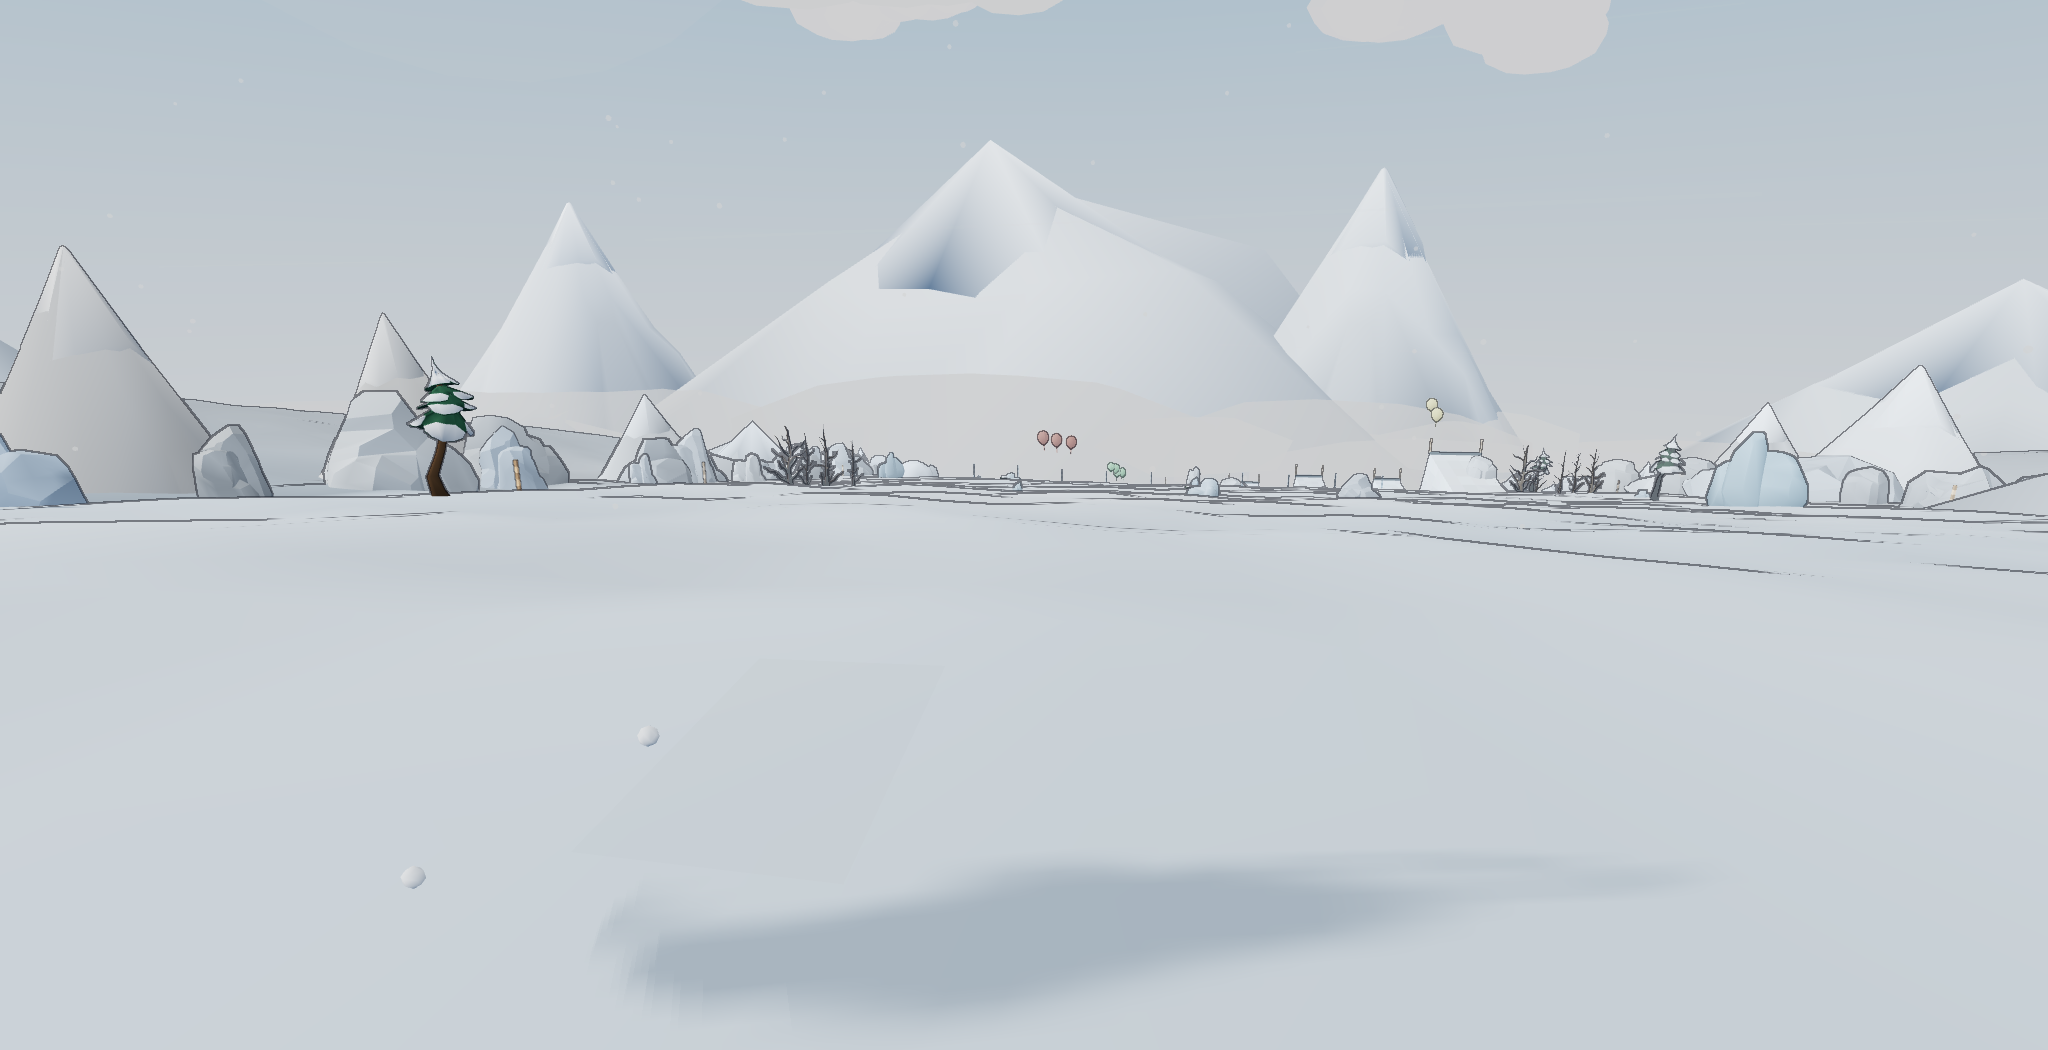
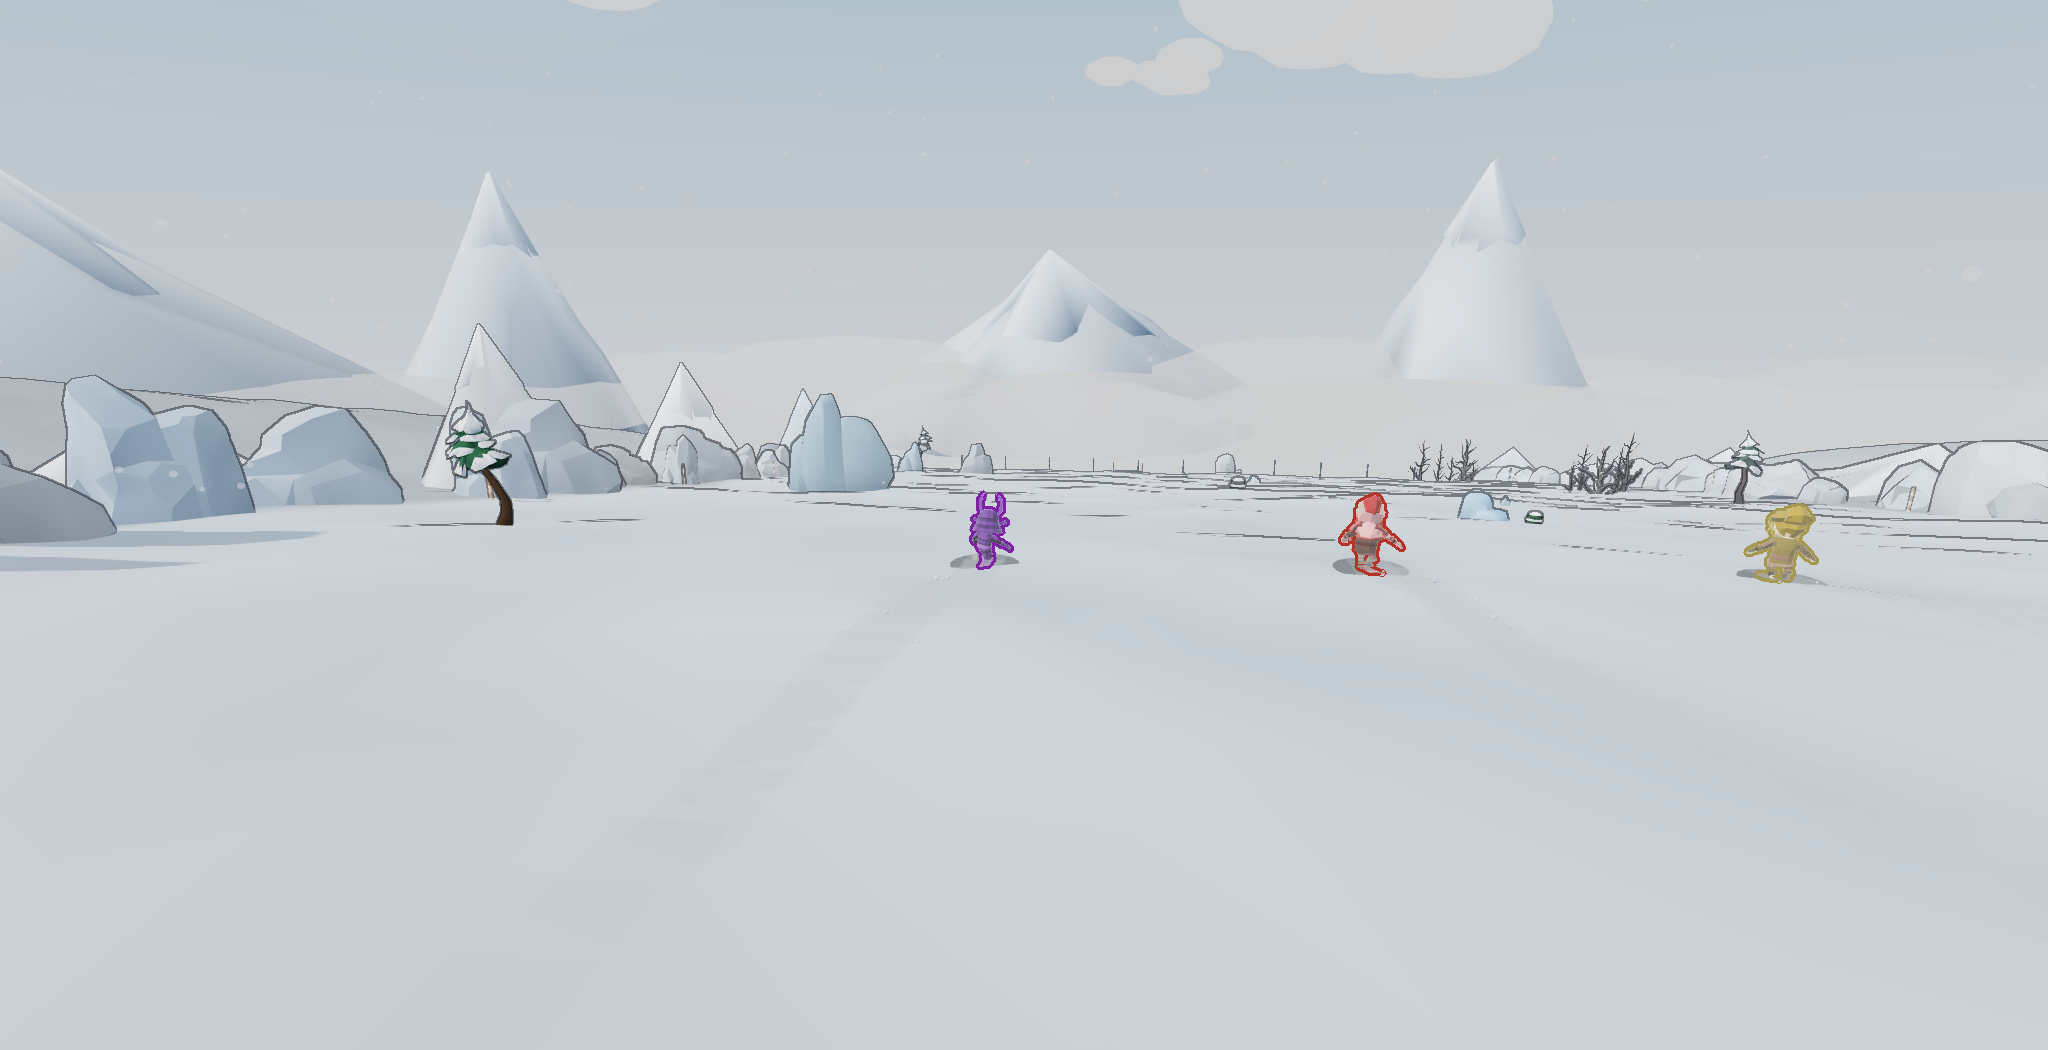
MINICHARS (Toni 28/08): los cuatro minijuegos dejan de estar vacios — ahora se corre en ellos
Toni: "los personajes no salen en los surf, sandboard, kitesurf y tubo". El ocultado era DELIBERADO
(el 27/08 pidio "un screenshot sin personajes me vale"), asi que se cae el bloque entero que apagaba
r.gfx / r.shadow / r.tabla / r.kite y los SkinnedMesh de las dos escenas de modulo. Quitar el kite es
lo que hace que el kitesurf se lea como kitesurf: antes se veian las cuerdas de la cometa colgando
sin cometa ni jinete, y en la nieve quedaba la SOMBRA del corredor invisible sobre la ladera.

Se sigue escondiendo una sola cosa: los munecos de la PARTIDA. Viven en `scene`, no en DESC.scene,
asi que hoy ni se dibujan; cuesta cero y cubre el caso de que el render caiga al else.

LO GORDO NO ERA ESO, sino que la carrera no se estaba simulando. El guion era sleep(2500) ->
introT=9999 -> sleep(9000) y foto a lo que hubiera; en headless eso son ~25 frames de fisica, con los
cuatro amontonados en la parrilla y los mixer casi en pose de bind. Ahora se bombea tick(dt) a mano,
que es publico, y la foto sale ademas DETERMINISTA: mismo avance, mismo encuadre.

Dos trampas del arnes que costaron sendas pasadas, y por eso van escritas en el fichero:

1. EL ORDEN. `pideTabla()` y el reintento de `montaPersonaje` viven DENTRO de tick
   (descenso.js:5920-5921, tubo.js:2795). Con el rAF estrangulado en headless el tick no corre solo,
   asi que NADIE pide los GLB: esperar 90 s daba 0/4 eternamente — no es que tardaran, es que nadie
[…]

diff --git a/_captura_minis.js b/_captura_minis.js
@@ -13,11 +13,26 @@ const URL = 'http://localhost:8181/rumble_arena_cinta_v4.html?explorar';
 const DEST = 'C:/Users/tonit/Desktop/Rumbleboys Alfa';
 const sleep = ms => new Promise(r => setTimeout(r, ms));
 
+/* `out` LLEVA _iso: es como los pide el menu (rumble_arena_cinta_v4.html:20106, 'mini_'+pasoClave+
+   suf+'.png' con suf='_iso'). Sin el sufijo hay que renombrar a mano tras cada pasada, que es lo
+   que paso el 27/08. No quitarlo.
+   `avance` = segundos de carrera que se simulan antes de la foto (ver el bombeo mas abajo). Va por
+   mini y no global porque la parrilla del MAR es el doble de ancha (x0 = (i-1.5)*26 frente a *16),
+   asi que con el mismo valor el kitesurf sale mucho mas disperso que la nieve.
+   Los dos numeros son un EQUILIBRIO medido, no un capricho: la parrilla nace con 48 u de ancho y la
+   camara va al hombro del corredor 0, asi que cuanto mas se avanza mas se dispersan y mas atras hay
+   que irse para que quepan; y cuanto mas atras, mas pequenos salen. Probado: con avance 5 y sin
+   tope salian los cuatro pero como MOTAS (ilegibles en una card de 440 px); con tope 20 salian dos
+   GRANDES. Con 2 s y tope 34 salen tres a tamano legible, que es el mejor punto.
+   PROBADO Y DESCARTADO: apretar la formacion moviendo la x de los rivales hacia el protagonista
+   para que cupieran los cuatro y grandes. Aunque se daba un tick corto despues para recolocar
+   sombra y cometa, el resultado tenia TABLAS HUERFANAS tiradas por el suelo sin jinete — mover a un
+   corredor de golpe le dispara su propia logica. No volver a intentarlo por esta via. */
 const MINIS = [
-  { out: 'mini_m_sand.png', tipo: 'desc', piel: 'arena', nom: 'SANDBOARD' },
-  { out: 'mini_m_surf.png', tipo: 'desc', piel: 'mar',   nom: 'SURF' },
-  { out: 'mini_m_snow.png', tipo: 'desc', piel: 'nieve', nom: 'SNOWBOARD' },
-  { out: 'mini_m_tubo.png', tipo: 'tubo', nom: 'TUBO' },
+  { out: 'mini_m_sand_iso.png', tipo: 'desc', piel: 'arena', nom: 'SANDBOARD', avance: 2.0, retroMax: 34 },
+  { out: 'mini_m_surf_iso.png', tipo: 'desc', piel: 'mar',   nom: 'KITESURF',  avance: 2.0, retroMax: 34 },
+  { out: 'mini_m_snow_iso.png', tipo: 'desc', piel: 'nieve', nom: 'SNOWBOARD', avance: 2.0, retroMax: 34 },
+  { out: 'mini_m_tubo_iso.png', tipo: 'tubo', nom: 'TUBO',   avance: 4.0, retroMax: 10 },
 ];
 
 (async () => {
@@ -77,35 +92,136 @@ const MINIS = [
 
     const e1 = await ev(entrar);
     if (e1.err) { console.log('  ' + M.nom.padEnd(11) + ' FALLO AL ENTRAR ' + e1.err.slice(0, 140)); continue; }
-    /* SALTAR LA PRESENTACION. En headless el bucle va a 1-3 fps, asi que a los 9 s la camara de
-       intro sigue en mitad del travelling y sale mirando al horizonte (el surf salio siendo cielo y
-       una banda de mar). Empujando el reloj de intro por encima de su duracion, el tick llama a
-       raceGo() y la camara pasa a la de carrera, que es la que mira la pista. */
-    await sleep(2500);
+    /* ================= LA CARRERA, SIMULADA A MANO =================
+       Antes esto era sleep(2500) -> introT=9999 -> sleep(9000) y foto a lo que hubiera. En headless
+       el bucle va a 1-3 fps, o sea que esos 11 s son ~25 frames de fisica: los cuatro seguian
+       AMONTONADOS en la parrilla y sus mixer casi en pose de bind. Ahora se bombea tick(dt) a mano,
+       que es publico (descenso.js:5848, tubo.js:2736) y no depende del rAF estrangulado. Con eso la
+       foto es ademas DETERMINISTA: mismo avance, mismo encuadre. */
+
+    /* 1) ESPERAR EL MONTAJE **EN TIEMPO REAL**, y hacerlo ANTES de bombear. Es obligatorio:
+       tick() en fase intro acumula _espera y dispara introGo() al llegar a INTRO.espera (12 s,
+       descenso.js:5136). Bombear se come esos 12 s en milisegundos, asi que si se bombea antes de
+       que los GLB (12 MB) hayan resuelto, la presentacion arranca con cuatro CAPSULAS GRISES. Y los
+       GLB solo pueden resolverse entre turnos del event loop, que un Runtime.evaluate sincrono no
+       cede: por eso se espera desde Node, con sleeps de verdad.
+       OJO AL ORDEN, que es lo que fallo en el primer intento: `pideTabla()` y el reintento de
+       `montaPersonaje` viven DENTRO de tick (descenso.js:5920-5921, tubo.js:2795), o sea que si el
+       tick no corre NADIE pide los GLB. Y en headless el rAF esta estrangulado, asi que no corre
+       solo. Esperar 90 s sin bombear daba 0/4 eternamente: no es que tardaran, es que nadie los
+       habia pedido. Por eso el sondeo bombea UN tick por vuelta (dispara la peticion y reintenta el
+       montaje) y luego cede el hilo un segundo de verdad, que es cuando la promesa del GLB resuelve.
+       Un tick por vuelta ademas mantiene `_espera` a raya: 90 vueltas son 1,5 s simulados, muy por
+       debajo de los 12 s de INTRO.espera que dispararian la presentacion con capsulas grises. */
+    let mont = '';
+    for (let k = 0; k < 90; k++) {
+      const q = await ev(`(function(){ const M = (window.DESC && DESC.on) ? DESC : ((window.TUBO && TUBO.on) ? TUBO : null);
+        if(!M || !M.racers || !M.racers.length) return '0/0';
+        try{ M.tick(1/60); }catch(e){}
+        return M.racers.filter(r => r.montado).length + '/' + M.racers.length; })()`);
+      mont = q.v || '';
+      const mm = /^(\d+)\/(\d+)$/.exec(mont);
+      if (mm && +mm[2] > 0 && mm[1] === mm[2]) break;
+      await sleep(1000);
+    }
+    if (!/^(\d+)\/\1$/.test(mont)) console.log('  ' + M.nom.padEnd(11) + ' AVISO: montaje ' + mont + ' -> saldran capsulas grises');
+
+    /* 2) que la IA conduzca TAMBIEN al corredor 0. El gancho ya existia en descenso.js:5877 y no lo
+       usaba nadie; en tubo.js se acaba de anadir igual. Sin esto el humano no traza (ax:0) y en el
+       tubo acaba estrellado o fuera, que es peor foto que ninguna.
+       3) saltar la presentacion. NO basta con introT=9999: el tick solo mira ese reloj DENTRO de
+       `if(_introGo)`, y _introGo solo se pone cuando los cuatro estan montados o cuando _espera pasa
+       de 12 s. Con el reloj a 9999 y _introGo a mano, el primer tick del bombeo llama a raceGo(),
+       que ademas reasienta a los corredores sobre el suelo real. */
     await ev(`(function(){
-      try{ if(window.DESC && DESC.on) DESC.introT = 9999; }catch(e){}
-      try{ if(window.TUBO && TUBO.on) TUBO.introT = 9999; }catch(e){}
+      for(const MOD of [window.DESC, window.TUBO]){
+        if(!MOD || !MOD.on || !MOD.racers) continue;
+        for(const r of MOD.racers) r.aiDrive = true;
+        MOD._introGo = true; MOD.introT = 9999;
+      }
       return 'ok';
     })()`);
-    await sleep(9000);
+
+    /* 4) BOMBEO, en tandas con un respiro entre ellas: cada tanda es una evaluacion SINCRONA, y
+       encadenar miles de ticks sin ceder el hilo bloquea al navegador. Cada tick va en try/catch
+       porque DESC.tick no lo lleva por dentro: si updateAudio o updateHud lanzan, se cortaria el
+       bombeo a media carrera y la escena quedaria a medias. */
+    const TANDA = 120, dtF = 1 / 60;
+    const ticks = Math.max(1, Math.round((M.avance || 4) / dtF));
+    let hechos = 0, fallos = 0;
+    for (let done = 0; done < ticks; done += TANDA) {
+      const n = Math.min(TANDA, ticks - done);
+      const q = await ev(`(function(){ const M = (window.DESC && DESC.on) ? DESC : ((window.TUBO && TUBO.on) ? TUBO : null);
+        if(!M || !M.tick) return '0/0';
+        let ok = 0, ko = 0;
+        for(let i = 0; i < ${n}; i++){ try{ M.tick(${dtF}); ok++; }catch(e){ ko++; } }
+        return ok + '/' + ko; })()`);
+      const pr = String(q.v || '0/0').split('/');
+      hechos += (+pr[0] || 0); fallos += (+pr[1] || 0);
+      await sleep(200);
+    }
+    const fase = (await ev(`(function(){ const M = (window.DESC && DESC.on) ? DESC : ((window.TUBO && TUBO.on) ? TUBO : null);
+      return M ? (M.phase + ' t=' + (M.t || 0).toFixed(1)) : '?'; })()`)).v;
+    console.log('  ' + M.nom.padEnd(11) + ' montaje ' + mont + ' · ticks ' + hechos + (fallos ? (' · FALLOS ' + fallos) : '') + ' · ' + fase);
 
     const shot = await ev(`(function(){
-      /* SIN PERSONAJES: fuera los muñecos de la partida y los corredores del modulo */
+      /* ►CORREDORES (Toni 28/08: "los personajes no salen en los surf, sandboard, kitesurf y
+         tubo"). Aqui estaba el ocultado, y era DELIBERADO: la peticion del 27/08 fue "un screenshot
+         sin personajes me vale". Ahora los quiere, asi que se cae entero el bloque que apagaba
+         r.gfx / r.shadow / r.tabla / r.kite y los SkinnedMesh de las dos escenas de modulo. Quitar
+         el kite es justo lo que hace que el kitesurf se lea como kitesurf: antes se veian las
+         cuerdas de la cometa colgando sin cometa ni jinete.
+         Lo UNICO que se sigue escondiendo son los munecos de la PARTIDA: viven en scene, no en
+         DESC.scene, asi que hoy ni se dibujan (DESC.render pinta DESC.scene con DESC.cam). Cuesta
+         cero y cubre el caso de que el render caiga al else de renderer.render(scene,camera). */
       try{ if(typeof players!=='undefined') for(const p of players){ if(p.gfx && p.gfx.root) p.gfx.root.visible = false; } }catch(e){}
-      try{ if(window.DESC && DESC.on && DESC.scene) DESC.scene.traverse(o => { if(o.isSkinnedMesh) o.visible = false; }); }catch(e){}
-      try{ if(window.TUBO && TUBO.on && TUBO.scene) TUBO.scene.traverse(o => { if(o.isSkinnedMesh) o.visible = false; }); }catch(e){}
-      /* el corredor entero: su raiz se llama gfx (dentro van cuerpo, TABLA y capsula) y la sombra
-         va aparte. Escondiendo solo el SkinnedMesh se quedaba el snowboard flotando sobre su sombra. */
-      for(const MOD of [window.DESC, window.TUBO]){
-        try{ if(MOD && MOD.on && MOD.racers) for(const r of MOD.racers){
-          const g = r.gfx || r.g || r.root; if(g) g.visible = false;
-          if(r.shadow) r.shadow.visible = false;
-          if(r.tabla && r.tabla.visible !== undefined) r.tabla.visible = false;
-          if(r.kite && r.kite.visible !== undefined) r.kite.visible = false;
-        } }catch(e){}
-      }
       /* fuera el HUD propio del modulo, que es un div aparte */
       for(const q of ['descHud','tuboHud']){ const n = document.getElementById(q); if(n) n.style.display = 'none'; }
+
+      /* ►ENCUADRE: RETROCEDER HASTA QUE QUEPAN LOS CUATRO.
+         La camara de carrera va pegada al hombro del corredor 0 (stepCamera sigue a
+         racers.find(q=>q.human)), asi que con los rivales repartidos por la pista solo salia UNO
+         y la caratula no contaba que es una carrera. Medido: tras 5 s los cuatro abarcan ~47 u en
+         X, muy fuera de ese encuadre.
+         Se hace AQUI, despues del ultimo tick y antes de render, que es cuando ya no vuelve a
+         correr stepCamera y por tanto no lo deshace. Mismo metodo que el auto-encaje del arnes de
+         islas: proyectar los puntos a NDC y alejarse mientras alguno se salga.
+         OJO con la cupula: sky/backdrop/cielo (y fill en el tubo) van pegados a la camara cada
+         frame (descenso.js:5077-5079); si se mueve la camara sin moverlos, un retroceso grande la
+         deja fuera de la cupula y sale un agujero de fondo.
+         Y OJO con pasarse: sin tope, encajar a los cuatro mandaba la camara tan atras que salian
+         DIMINUTOS (probado: la parrilla ya nace con 48 u de ancho, x0 = (i-1.5)*16, y encima se
+         separan en Z al correr). La caratula la manda el protagonista, asi que retroMax corta el
+         retroceso: si alguno se queda fuera de cuadro, mejor eso que cuatro motas. */
+      try{
+        const MOD = (window.DESC && DESC.on) ? DESC : ((window.TUBO && TUBO.on) ? TUBO : null);
+        if(MOD && MOD.cam && MOD.racers && MOD.racers.length && MOD.scene){
+          MOD.scene.updateMatrixWorld(true);
+          const cam = MOD.cam, dir = new THREE.Vector3();
+          cam.getWorldDirection(dir);
+          const pts = [];
+          for(const r of MOD.racers){
+            const g = r.gfx || r.g || r.root; if(!g) continue;
+            const v = new THREE.Vector3().setFromMatrixPosition(g.matrixWorld); v.y += 1.2;
+            pts.push(v);
+          }
+          const PASO = 2.5, TOPE = ${M.retroMax || 20};
+          for(let it = 0; it < Math.floor(TOPE / PASO) && pts.length; it++){
+            cam.updateMatrixWorld(true); cam.updateProjectionMatrix();
+            let m = 0;
+            for(const P of pts){
+              const q = P.clone().project(cam);
+              /* q.z > 1 = detras de la camara: no hay NDC que valga, hay que alejarse si o si */
+              m = (q.z > 1) ? 9 : Math.max(m, Math.abs(q.x), Math.abs(q.y));
+              if(m >= 9) break;
+            }
+            if(m <= 0.86) break;             // 14% de margen, como el 4% del arnes de islas pero mas holgado
+            cam.position.addScaledVector(dir, -PASO);
+          }
+          cam.updateMatrixWorld(true); cam.updateProjectionMatrix();
+          for(const q of [MOD.backdrop, MOD.sky, MOD.cielo, MOD.fill]) if(q && q.position) q.position.copy(cam.position);
+        }
+      }catch(e){}
       /* dibujar UNA vez y sacar el canvas: Page.captureScreenshot saca la portada, que va encima */
       try{
         if(window.DESC && DESC.on && DESC.render) DESC.render();

diff --git a/tubo.js b/tubo.js
@@ -2752,8 +2752,11 @@ TUBO.tick = function(dt){
     }
   } else if(TUBO.phase === 'race' || TUBO.phase === 'finish'){
     for(const r of TUBO.racers){
+      /* ►AIDRIVE: mismo gancho que descenso.js:5877 — con `aiDrive` puesto, al humano lo conduce
+         la IA. No-op mientras nadie lo ponga (nadie lo hace en el juego); lo usa el arnes de
+         caratulas, que si no fotografia al corredor 0 estrellado o fuera de pista. */
       r._inp = (r.done || r.fuera > 0) ? { ax:0, jump:false }
-             : r.human ? readTubo(r) : aiInput(r, dt);
+             : (r.human && !r.aiDrive) ? readTubo(r) : aiInput(r, dt);
     }
     /* el líder se calcula UNA vez por frame: lo usan el rebufo de los cuatro */
     let lider = TUBO.racers[0];
